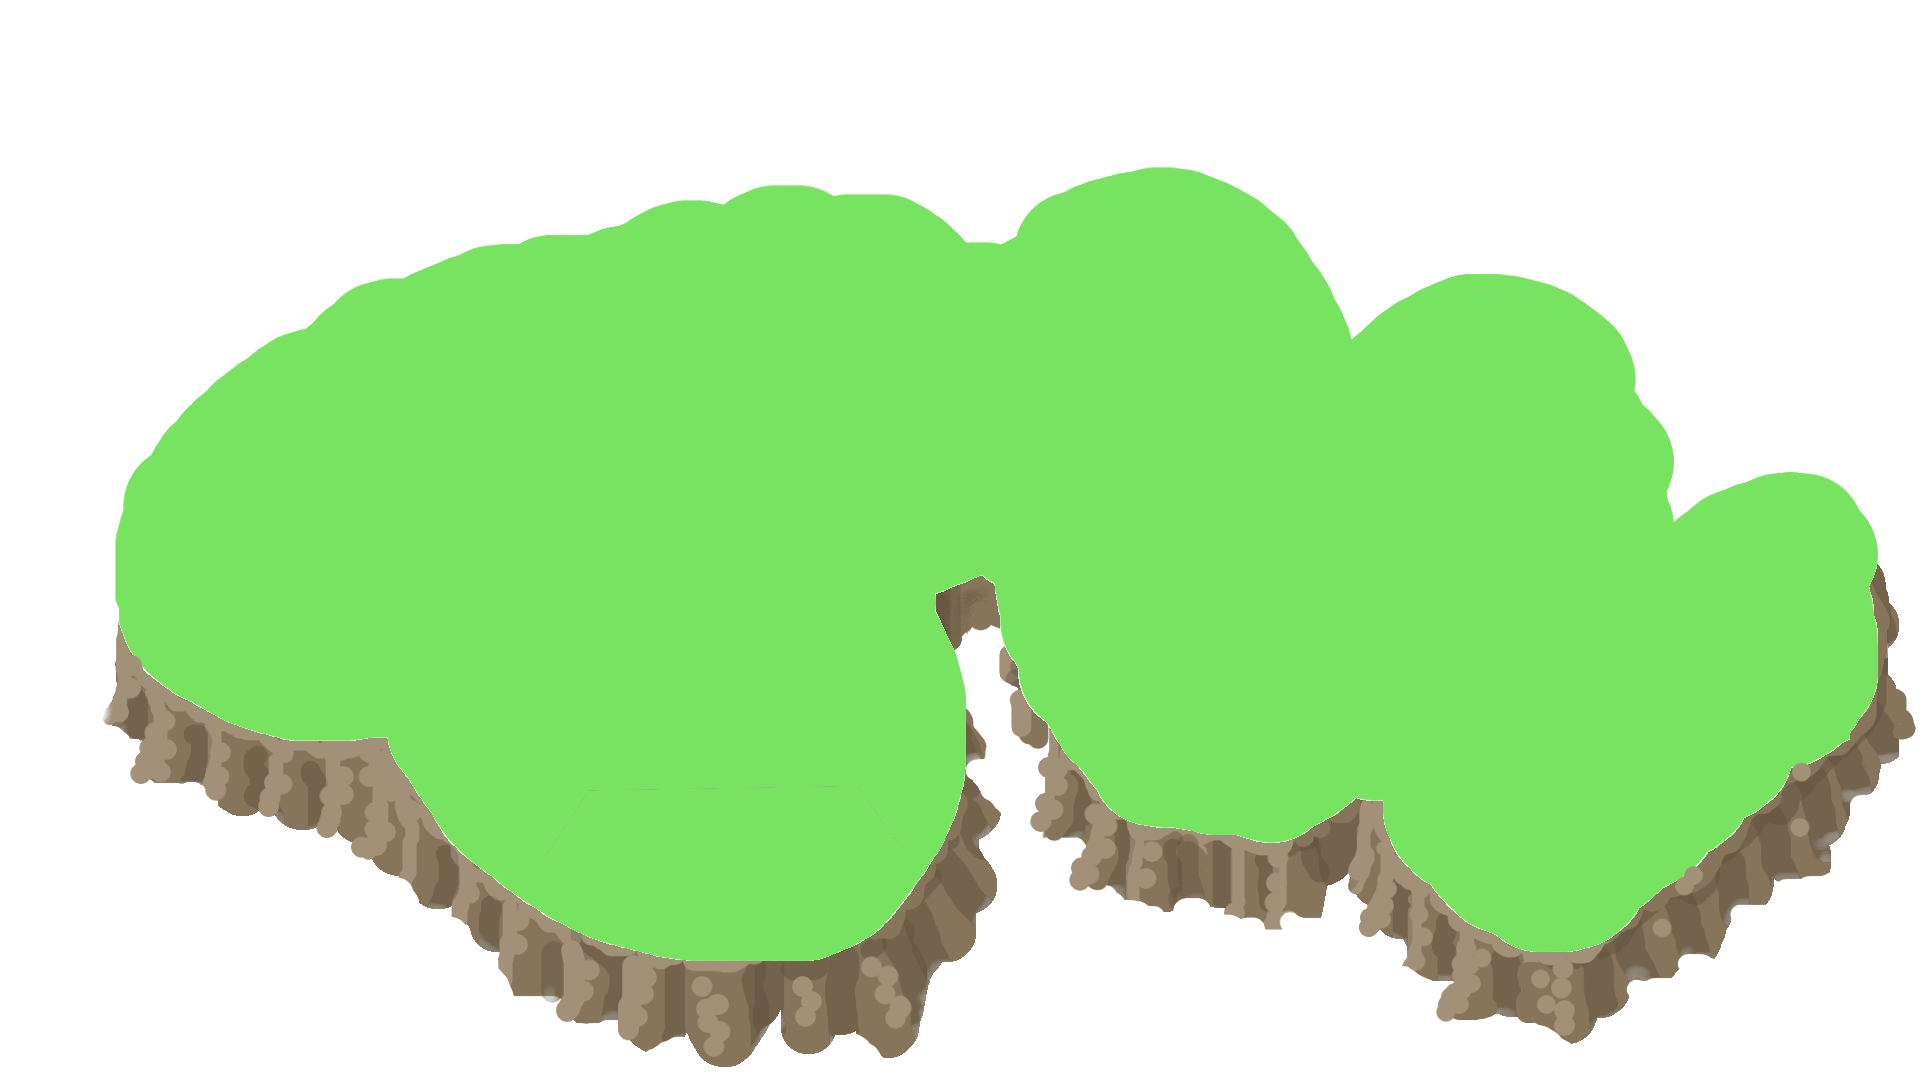
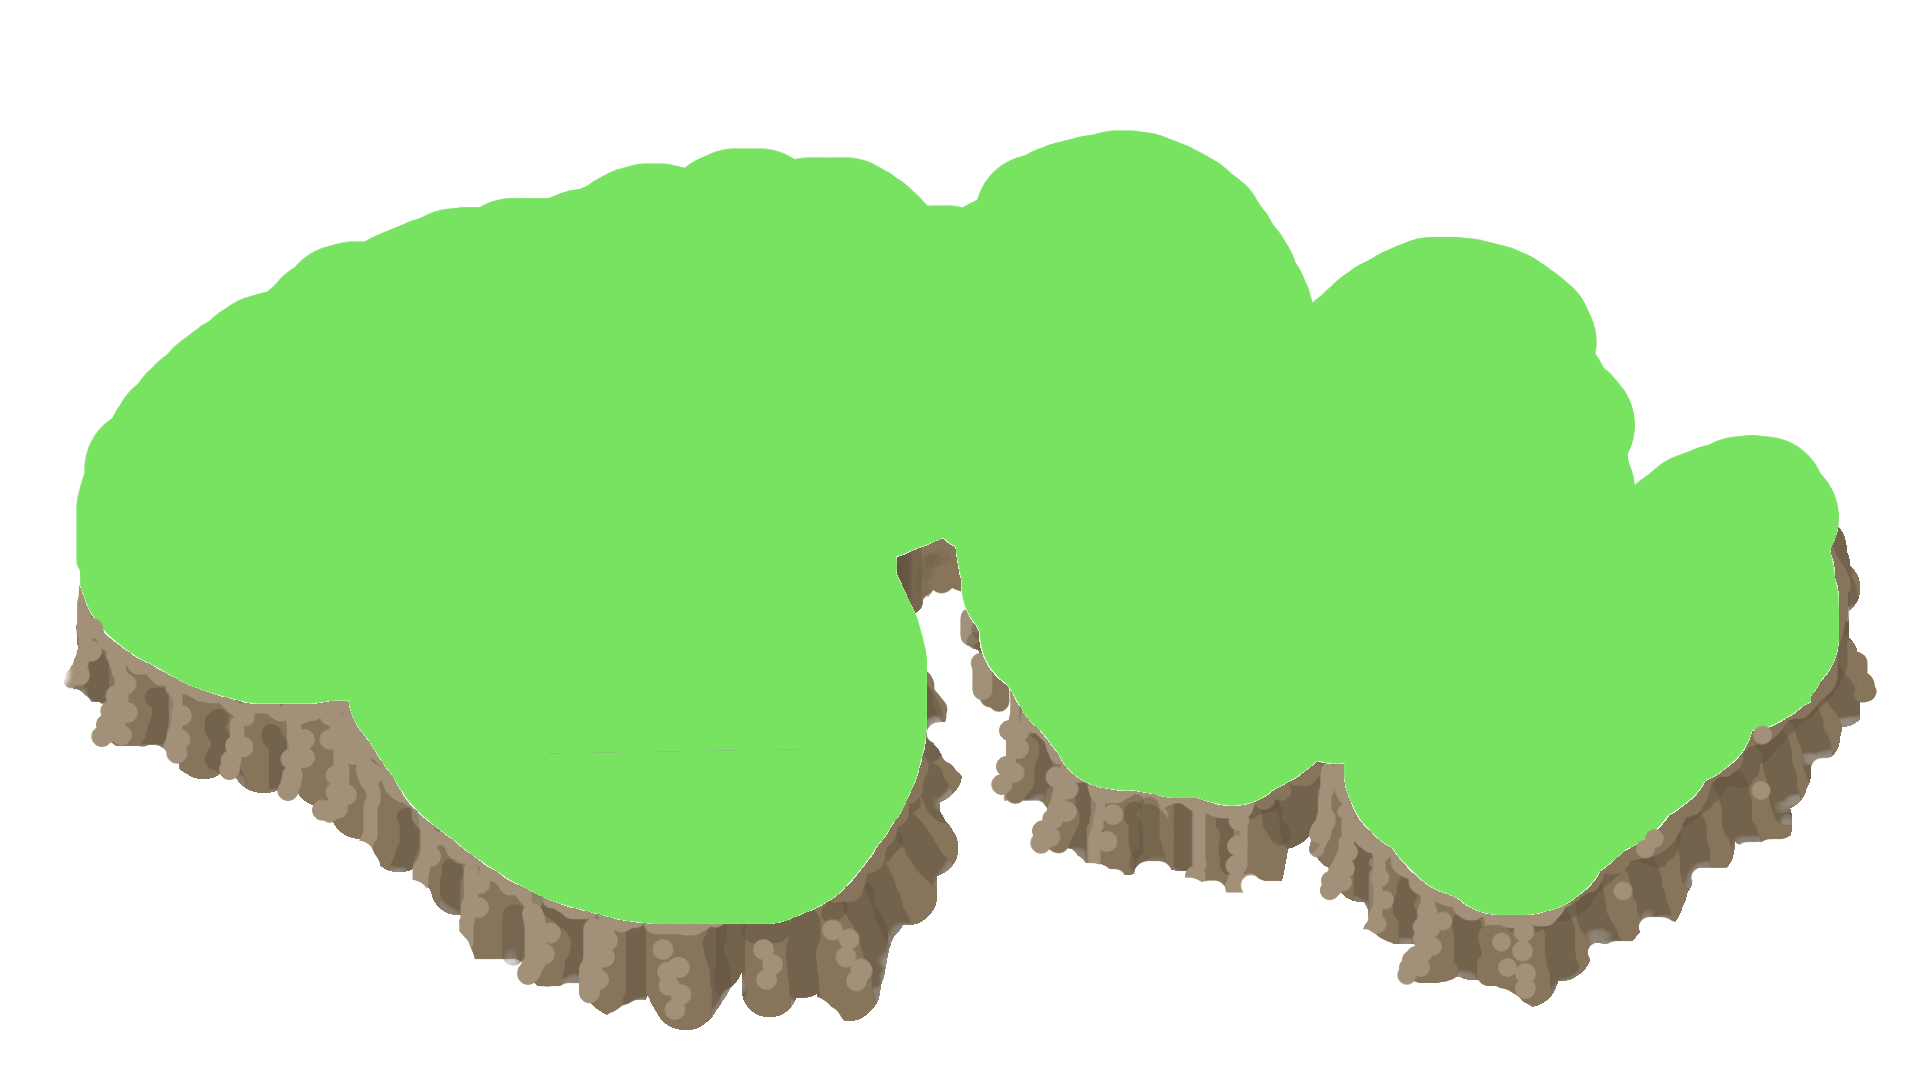
remake map to align with new focus

Changed region(s): [[0.0312, 0.1222, 1.0, 1.0], [0.6562, 0.1833, 0.8125, 0.3056]]

diff --git a/production/src/images/Images.jsx b/production/src/images/Images.jsx
@@ -1,17 +1,21 @@
 const IMAGES = {
     layer1 : new URL('./layer1-ocean.png',import.meta.url).href,
     layer2 : new URL('./layer2-tw_island.png',import.meta.url).href,
-    layer3 : new URL('./layer3-forest_1.png',import.meta.url).href,
-    layer4 : new URL('./layer4_path.png',import.meta.url).href,
-    layer5 : new URL('./layer5-vending_machine.png',import.meta.url).href,
-    layer6 : new URL('./layer6-diner.png',import.meta.url).href,
-    layer7 : new URL('./layer7-museum.png',import.meta.url).href,
-    layer8 : new URL('./layer8-amusementpark.png',import.meta.url).href,
-    layer9 : new URL('./layer9-school.png',import.meta.url).href,
-    layer10 : new URL('./layer10-trees.png',import.meta.url).href,
-    layer11 : new URL('./layer11-forest2.png',import.meta.url).href,
-    layer12 : new URL('./layer12-fence.png',import.meta.url).href,
-    layer13: new URL('./layer13-bridge.png', import.meta.url).href
+    layer3 : new URL('./layer3-path.png',import.meta.url).href,
+    layer4 : new URL('./layer4-forest_back.png',import.meta.url).href,
+    layer5 : new URL('./layer5-station2.png',import.meta.url).href,
+    layer6 : new URL('./layer6-tracks.png',import.meta.url).href,
+    layer7 : new URL('./layer7-vendingmachine.png',import.meta.url).href,
+    layer8 : new URL('./layer8-library.png',import.meta.url).href,
+    train : new URL('./layer9-train.png',import.meta.url).href,
+    layer10 : new URL('./layer10-forest_middle.png',import.meta.url).href,
+    layer11 : new URL('./layer11-diner',import.meta.url).href,
+    layer12 : new URL('./layer12-station1.png',import.meta.url).href,
+    layer13: new URL('./layer13-tries.png', import.meta.url).href,
+    layer14: new URL('./layer14-school.png', import.meta.url).href,
+    layer15: new URL('./layer15-trees.png', import.meta.url).href,
+    layer16: new URL('./layer16-forest_front.png', import.meta.url).href,
+    layer17: new URL('./layer17-bridge_front.png', import.meta.url).href,
 };
 
 export default IMAGES

diff --git a/production/src/routes/game_map.jsx b/production/src/routes/game_map.jsx
@@ -82,11 +82,16 @@ export default function Game_Map() {
                 <div className="childLayer"><img className="mapImg" src={IMAGES.layer6}/></div>
                 <div className="childLayer"><img className="mapImg" src={IMAGES.layer7}/></div>
                 <div className="childLayer"><img className="mapImg" src={IMAGES.layer8}/></div>
-                <div className="childLayer"><img className="mapImg" src={IMAGES.layer9}/></div>
+                <div className="childLayer" id="train"><img className="mapImg" src={IMAGES.train}/></div>
                 <div className="childLayer"><img className="mapImg" src={IMAGES.layer10}/></div>
                 <div className="childLayer"><img className="mapImg" src={IMAGES.layer11}/></div>
                 <div className="childLayer"><img className="mapImg" src={IMAGES.layer12}/></div>
                 <div className="childLayer"><img className="mapImg" src={IMAGES.layer13}/></div>
+                <div className="childLayer"><img className="mapImg" src={IMAGES.layer14}/></div>
+                <div className="childLayer"><img className="mapImg" src={IMAGES.layer15}/></div>
+                <div className="childLayer"><img className="mapImg" src={IMAGES.layer16}/></div>
+                <div className="childLayer"><img className="mapImg" src={IMAGES.layer17}/></div>
+                
             </div>
         </div>
     );

diff --git a/production/src/index.css b/production/src/index.css
@@ -122,7 +122,7 @@ form[action$="destroy"] button {
 .mapImg{
   width: 100%;
   height:auto;
-  margin-top:-5vw;
+  /* margin-top:-5vw; */
   /* margin-left:-22rem; */ /*bring back once menu no longer needed*/
 }
 
